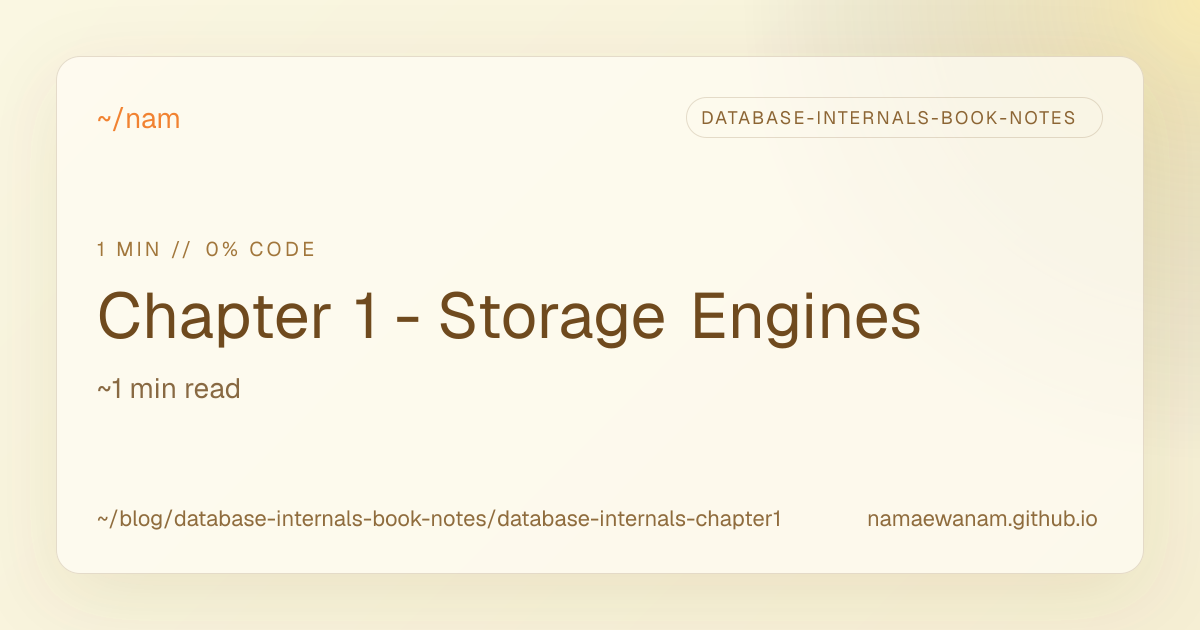
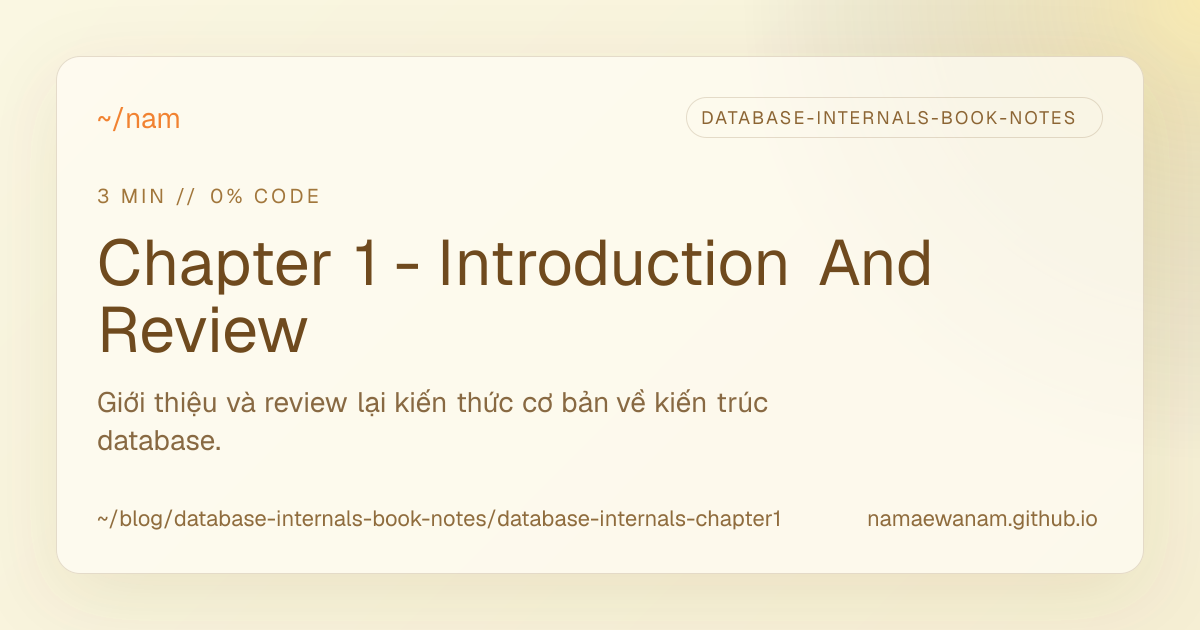
fix(security): upgrade next to 16.4.2 and set experimental.agentUpgrade

Changed region(s): [[0.0617, 0.3619, 0.8017, 0.573], [0.0617, 0.6032, 0.6475, 0.7238], [0.0617, 0.3016, 0.2775, 0.3317]]

diff --git a/next.config.js b/next.config.js
@@ -28,6 +28,7 @@ const nextConfig = {
 	turbopack: {},
 	trailingSlash: true,
 	experimental: {
+		agentUpgrade: 'security',
 		optimizePackageImports: ['lucide-react'],
 	},
 	...(process.env.NODE_ENV !== 'production' && {
